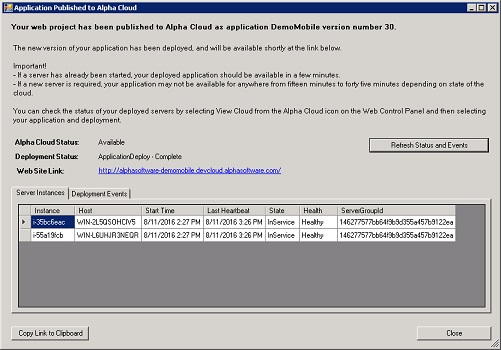
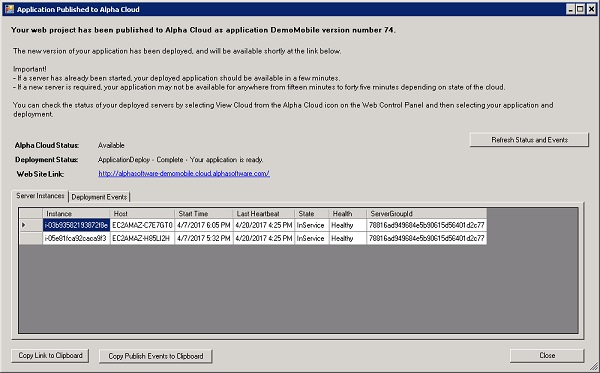
Update documentation and screen shots to include the new Copy Events to Clipboard buttons on the Cloud View and Publish Succeeded dialogs. Note: Dialogs also have a better autosize option.

diff --git a/helpfiles/Guides/Beta Software/Alpha Cloud/Alpha Anywhere Developers Guide/Publishing Your Application.html b/helpfiles/Guides/Beta Software/Alpha Cloud/Alpha Anywhere Developers Guide/Publishing Your Application.html
@@ -171,7 +171,19 @@ Once the server recognizes that your deployment is assigned to it, you will see 
 <img border="0" src="ScreenShots/AlphaCloudYourFilesHaveBeenPublishedServers.jpg">
 <br/>
 <br/>
-<p><strong>Congratulations!</strong>  Your web project has been published and deployed on Alpha Cloud.</p>
+<p><strong>Congratulations!</strong> Your web project has been published and deployed on Alpha Cloud.</p>
+<br/>
+<br/>
+<p><strong>Oops! Something went wrong.  What do I do?</strong></p>
+<p>Occasionally an error may occur during deployment.  
+If an error occurs, the list of events will include error messages in the description column.
+If the message makes sense and appears to be temporary, you may want to republish (or redeploy) your application.
+If the error appears to be more permanent, click <strong>Copy Publish Events to Clipboard</strong> and paste the clipboard contents into an e-mail addressed to AlphaCloudBugs@AlphaSoftware.com.
+</p>
+<br/>
+<p><strong>Note:</strong> If you should forget to copy the list of events to the clipboard, you can use the Cloud View dialog to see those events again.  
+This dialog also has a button to copy the events to the clipboard.
+</p>
 <br/>
 <br/>
 <p>Click the Close button on the Application Published to Alpha Cloud dialog to return to the Alpha Anywhere Web Control Panel.</p>

diff --git a/helpfiles/Guides/Beta Software/Alpha Cloud/Alpha Anywhere Developers Guide/Cloud View.html b/helpfiles/Guides/Beta Software/Alpha Cloud/Alpha Anywhere Developers Guide/Cloud View.html
@@ -71,6 +71,14 @@ a series of tasks will be triggered that result in your application being instal
 <img  src="ScreenShots/CloudViewDeploymentEventsSmall.jpg">
 <p class="fullsizeimagelink"><a href="ScreenShots/CloudViewDeploymentEvents.jpg">View a Full Sized Image</a></p>
 <br/>
+<br/>
+<p><strong>Oops! Something went wrong.  What do I do?</strong></p>
+<p> Occasionally an error may occur during deployment.  
+If an error occurs, the list of events will include error messages in the description column.
+If the message makes sense and appears to be temporary, you may want to republish (or redeploy) your application.
+If the error appears to be more permanent, click <strong>Copy Events to Clipboard</strong> and paste the clipboard contents into an e-mail addressed to AlphaCloudBugs@AlphaSoftware.com.
+</p>
+<br/>
 
 <h3><a id="CloudViewServerLoad">The Server Load Tab Page</a></h3><br/>
 <p> As your deployed application handles requests Alpha Cloud tracks activity for a number of metrics.  The metrics are summarized in fifteen minute increments.  The Server Load tab page displays charts for each of those metrics for the period of time you select as your analysis time frame at the top of the Cloud View dialog.  Selecting the metric on the left will show the appropriate chart on the right-hand side of the tab page.</p>
